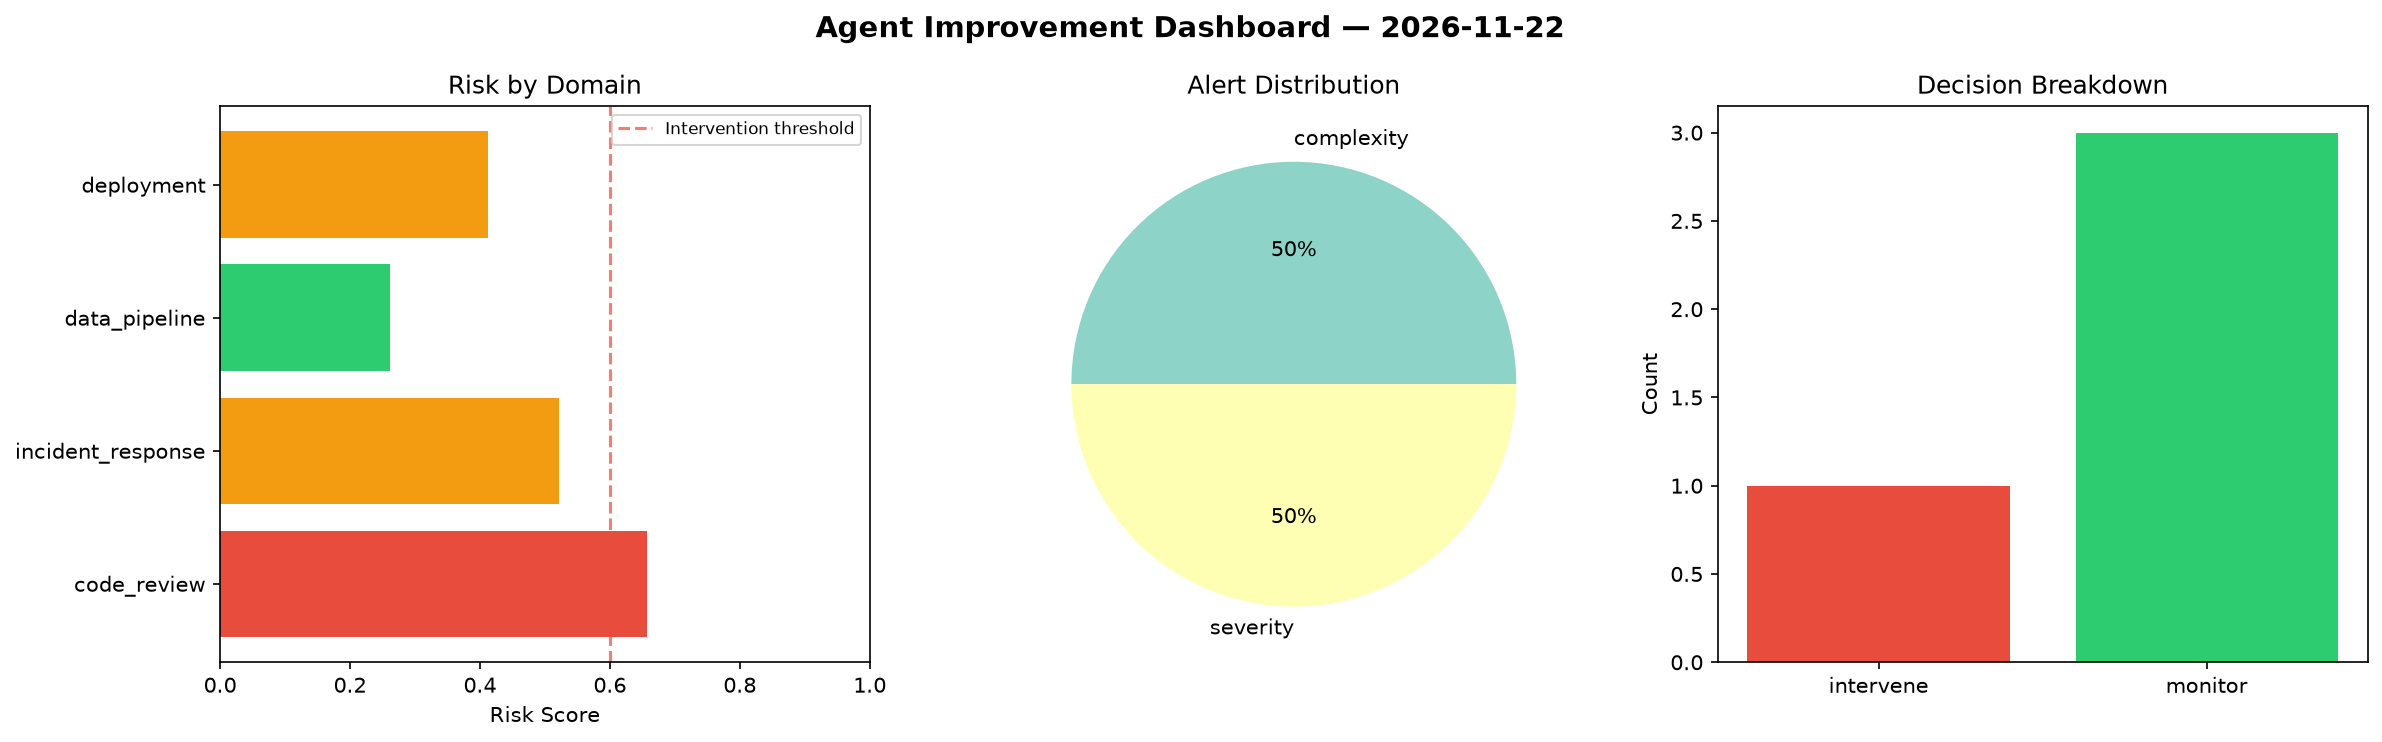
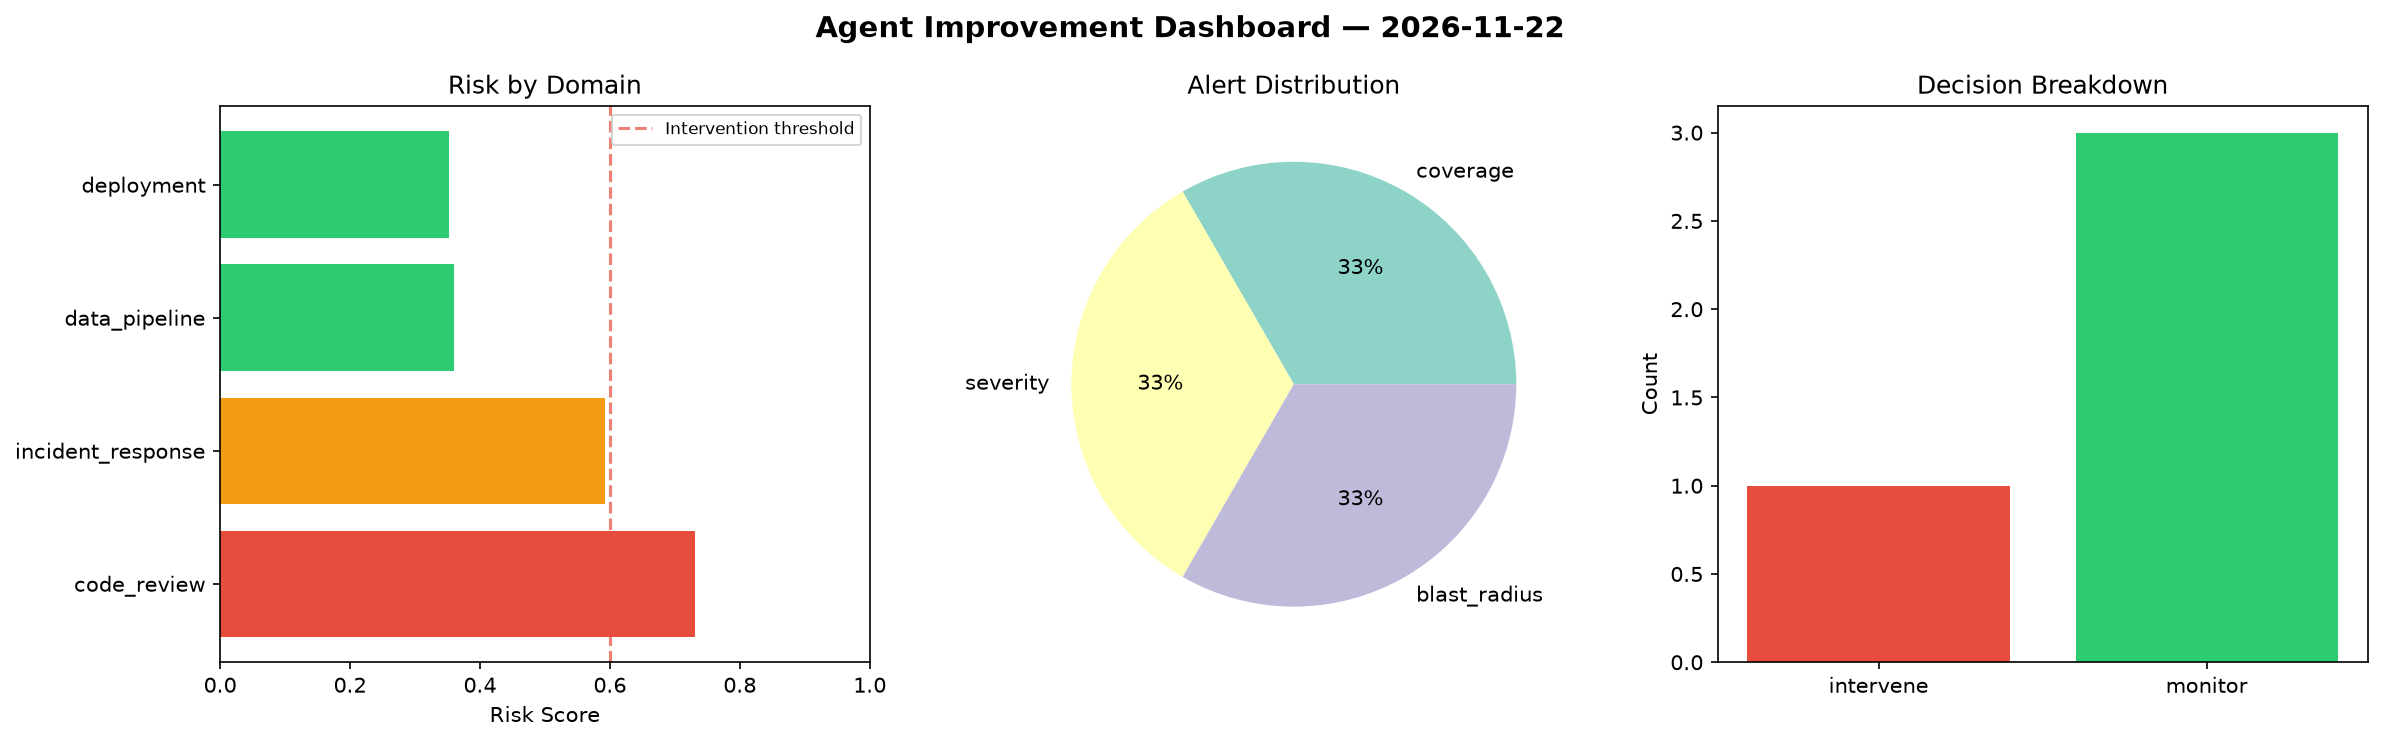
agent-improvement: daily cycle 2026-11-22T16:16

diff --git a/logs/2026-11-22.md b/logs/2026-11-22.md
@@ -1,6 +1,6 @@
 # Agent Improvement Report — 2026-11-22
 
-**Cycle ID:** `c7017f8f` | **Avg Risk:** 0.463 | **Interventions:** 1/4
+**Cycle ID:** `8a33a0c8` | **Avg Risk:** 0.5086 | **Interventions:** 1/4
 
 ![Dashboard](2026-11-22_dashboard.png)
 
@@ -10,18 +10,18 @@
 
 | Domain | Risk Score | Decision | Alerts |
 |--------|-----------|----------|--------|
-| code_review | 0.6572 | intervene | complexity |
-| incident_response | 0.5211 | monitor | severity |
-| data_pipeline | 0.2614 | monitor | none |
-| deployment | 0.4124 | monitor | none |
+| code_review | 0.7308 | intervene | coverage |
+| incident_response | 0.5917 | monitor | severity, blast_radius |
+| data_pipeline | 0.3594 | monitor | none |
+| deployment | 0.3526 | monitor | none |
 
 ## Delta vs Yesterday
 
 | Domain | Today | Yesterday | Change |
 |--------|-------|-----------|--------|
-| code_review | 0.6572 | 0.6677 | 📉 -1.6% |
-| incident_response | 0.5211 | 0.6365 | 📉 -18.1% |
-| data_pipeline | 0.2614 | 0.3733 | 📉 -30.0% |
-| deployment | 0.4124 | 0.3096 | 📈 33.2% |
+| code_review | 0.7308 | 0.6677 | 📈 9.5% |
+| incident_response | 0.5917 | 0.6365 | 📉 -7.0% |
+| data_pipeline | 0.3594 | 0.3733 | 📉 -3.7% |
+| deployment | 0.3526 | 0.3096 | 📈 13.9% |
 
 **Refinement:** `{'adjustment': 'maintain', 'trend': 'improving', 'window': 4}`
